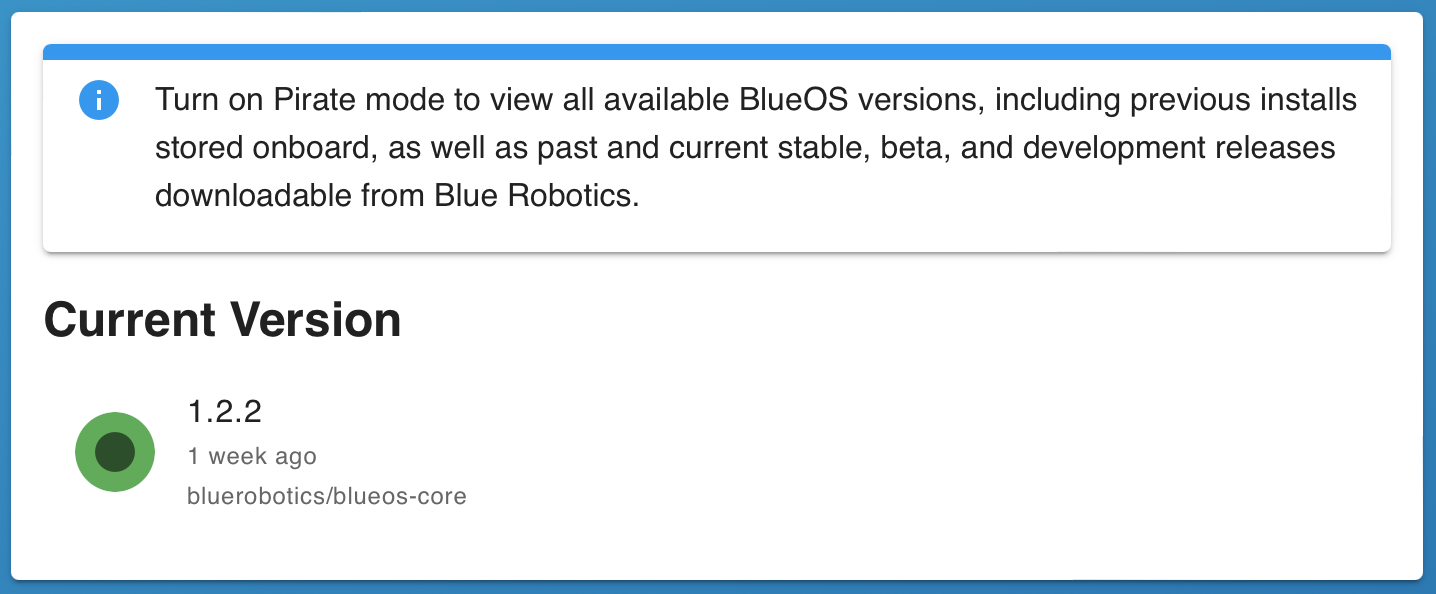
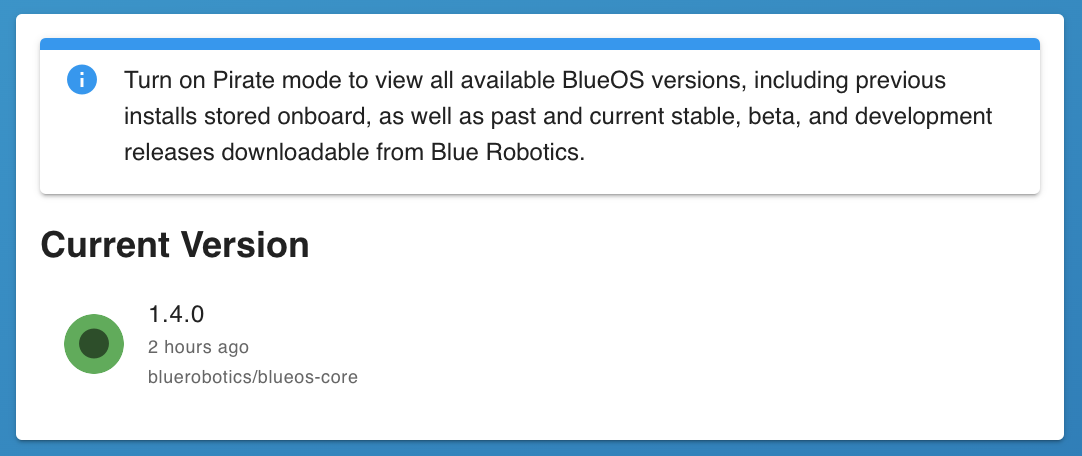
content: usage: advanced: version-chooser: cover interface updates

Changed region(s): [[0.0, 0.0, 1.0, 0.9825], [0.0915, 0.307, 0.549, 0.3684]]

diff --git a/content/usage/advanced/index.md b/content/usage/advanced/index.md
@@ -355,6 +355,15 @@ versions
    changes (e.g. during development)
 - Allows updating the [bootstrap image](@/development/bootstrap/index.md) to match the current version
 - Allows loading remote versions (including from custom docker-hub repositories)
+- Allows logging in to one or more docker registries, to access private repositories,
+and to help avoid rate limiting
+   - By default, logs in to the registry for Docker Hub
+   - Custom registries can be authenticated to by specifying the relevant registry index after enabling the switch
+   - Credentials are saved to `.docker/config.json`, by default for the normal `pi` user (and optionally the root user)
+   - Accounts authenticated to the root user are displayed with a shield icon, and are valid for `sudo docker` commands
+{% end %}
+{{ easy_image(src="version-chooser-docker-login", width=400, class="pirate") }}
+{% pirate() %}
 - Allows manually uploading docker images from the surface computer
 - If an undetected failure somehow occurs in BlueOS (or if a broken version gets
 installed) it's possible to easily roll back to a working version from
